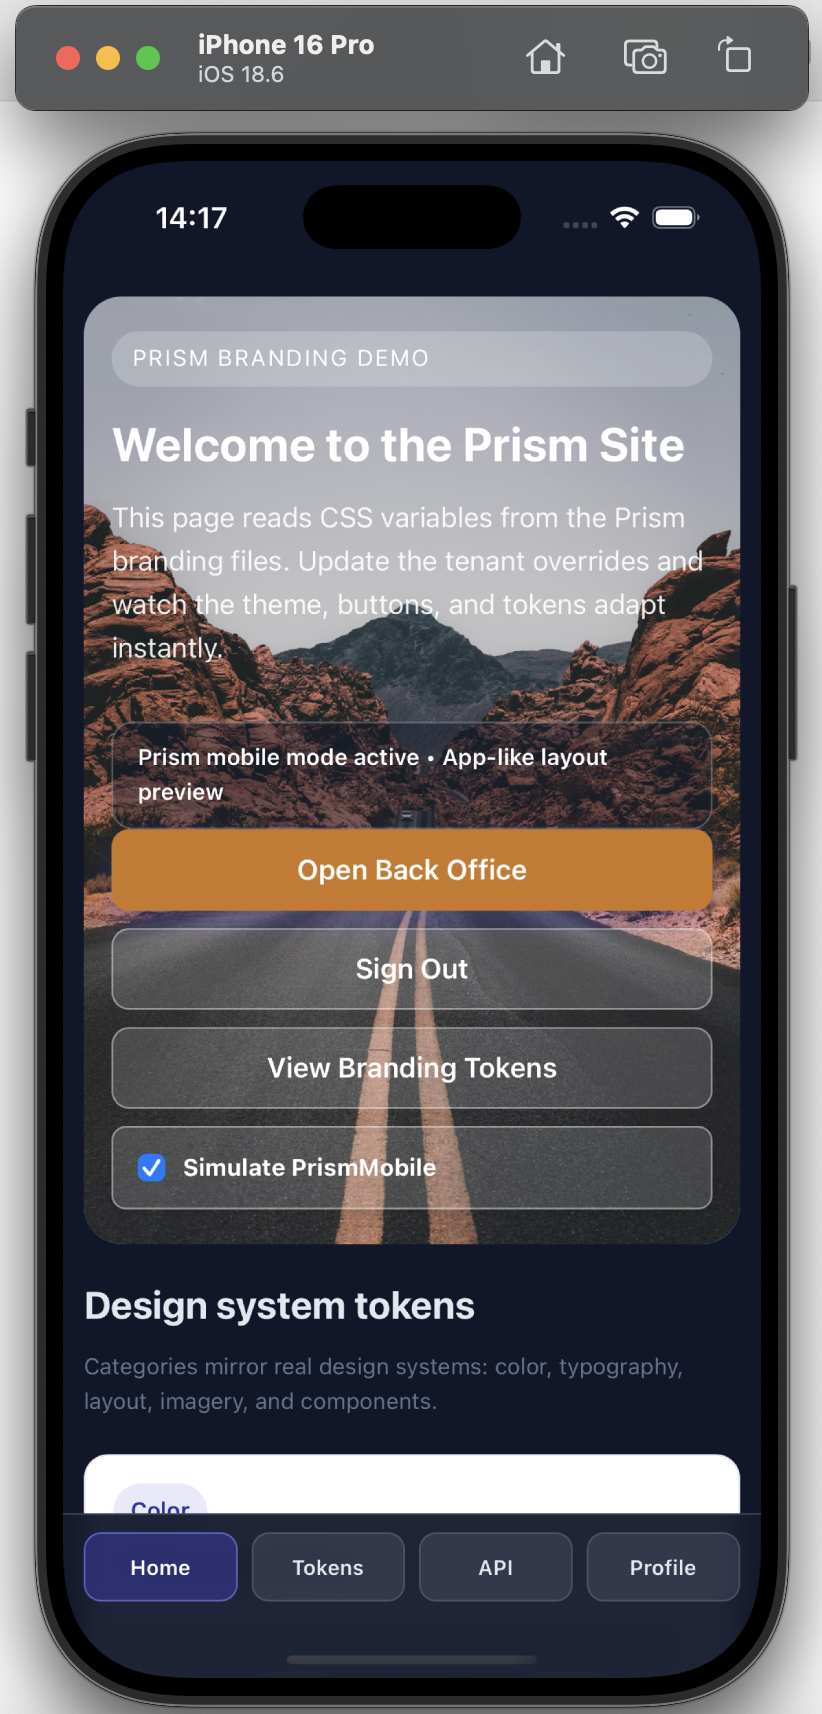
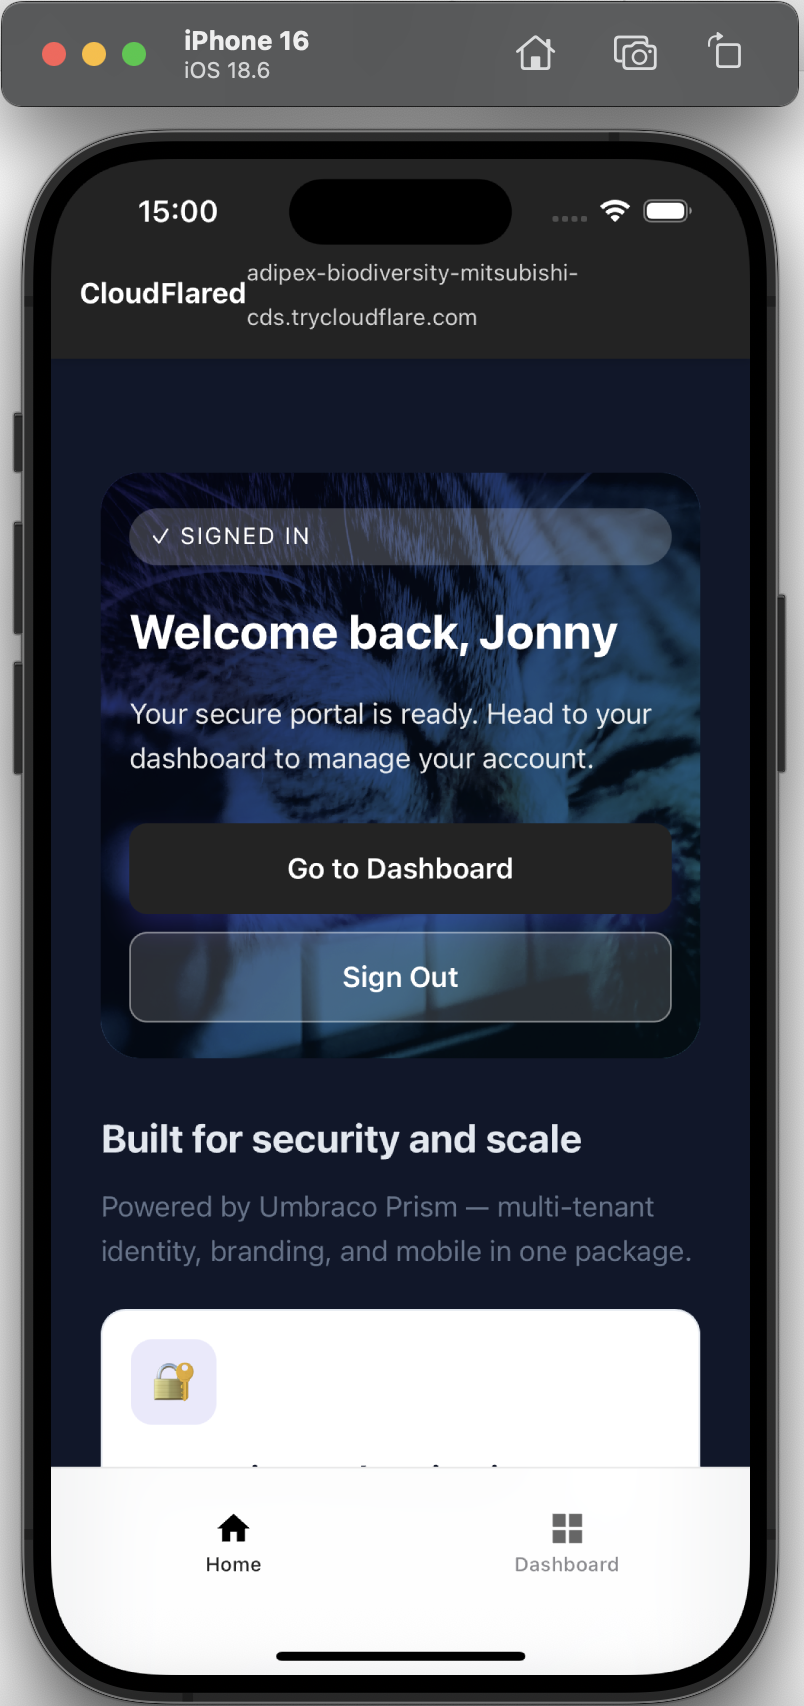
chore: screenshots

diff --git a/docs/branding-design-system.md b/docs/branding-design-system.md
@@ -85,9 +85,9 @@ Types are inferred from `@property` syntax, but can be overridden with `type:` i
 
 ---
 
-## File Structure
+## File Structure (test client example)
 
-Branding is organized across five focused CSS files, aggregated by a single entry point:
+Branding is organized across five (or how ever many you choose) focused CSS files, aggregated by a single entry point:
 
 ### **`prism-branding.css`** (Aggregator)
 
@@ -359,11 +359,6 @@ On next page load (or after cache expires), the tenant editor will show:
 
 Tenant updates the value → CSS variable updates → styles rerender instantly.
 
-<div align="center">
-<img src="images/branding-editor-new-variable.png" alt="Tenant editor showing a newly added Card Border Radius field in the Components section">
-<p><em>The new variable appears automatically — no UI code needed</em></p>
-</div>
-
 ---
 
 ## Best Practices
@@ -433,11 +428,6 @@ This is safe for production — CSS file changes are rare and typically go throu
 ---
 
 ## Real-World Examples
-
-<div align="center">
-<img src="images/branding-before-after.png" alt="Side-by-side: test site with default branding vs a customised tenant with different primary colour and typography">
-<p><em>One codebase, two completely different brands — live-edited with no deploy</em></p>
-</div>
 
 ### Example 1: Dark Mode Brand Colors
 
